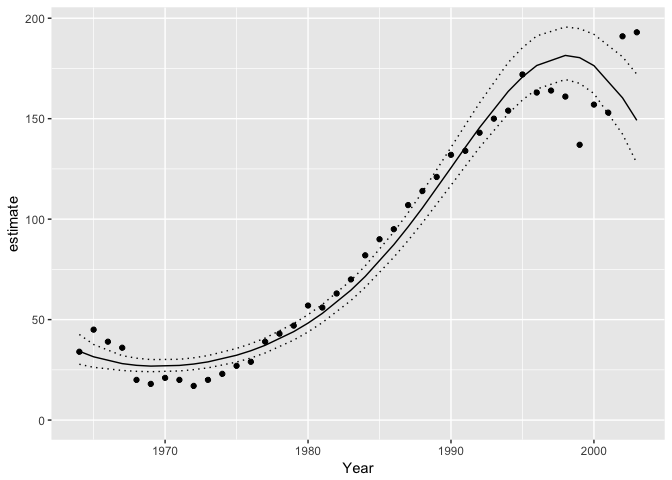
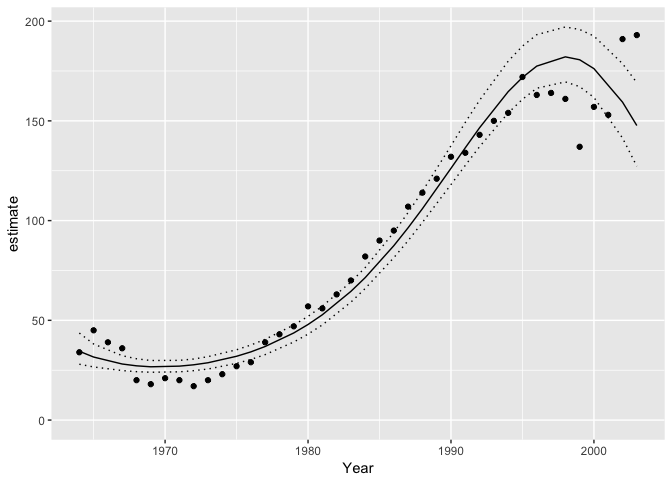
remove magrittr readme

diff --git a/README.md b/README.md
@@ -15,7 +15,6 @@ Demonstration
 
 ``` r
 library(ggplot2)
-library(magrittr)
 library(jmbr)
 #> Loading required package: mbr
 #> Loading required package: broom
@@ -57,7 +56,8 @@ for (i in 1:length(Pairs)) {
 
 model <- model(template, scale = "Year", new_expr = new_expr, monitor = "^(a|b|l)")
 
-analysis <- analyse(model, data = data) %>% reanalyse()
+analysis <- analyse(model, data = data)
+analysis <- reanalyse(analysis)
 
 plot(analysis)
 ```
@@ -75,11 +75,11 @@ tidy(analysis)
 #> # A tibble: 5 × 5
 #>              term    estimate  std.error   statistic p.value
 #> *           <chr>       <dbl>      <dbl>       <dbl>   <dbl>
-#> 1           alpha  4.21875112 0.03885275 108.5648200  0.0005
-#> 2           beta1  1.17459477 0.06604093  17.8402572  0.0005
-#> 3           beta2  0.01823347 0.02698938   0.6800934  0.5250
-#> 4           beta3 -0.26341033 0.03411531  -7.7652317  0.0005
-#> 5 log_sDispersion -2.25449847 0.27639247  -8.2469455  0.0005
+#> 1           alpha  4.21748440 0.03946177 106.8589652  0.0005
+#> 2           beta1  1.18793417 0.06617626  18.0475643  0.0005
+#> 3           beta2  0.01777753 0.02777314   0.6595694  0.4960
+#> 4           beta3 -0.26891623 0.03436705  -7.9460382  0.0005
+#> 5 log_sDispersion -2.26675894 0.28366827  -8.0393583  0.0005
 
 year <- predict(analysis, new_data = new_data(data, "Year"))
 
